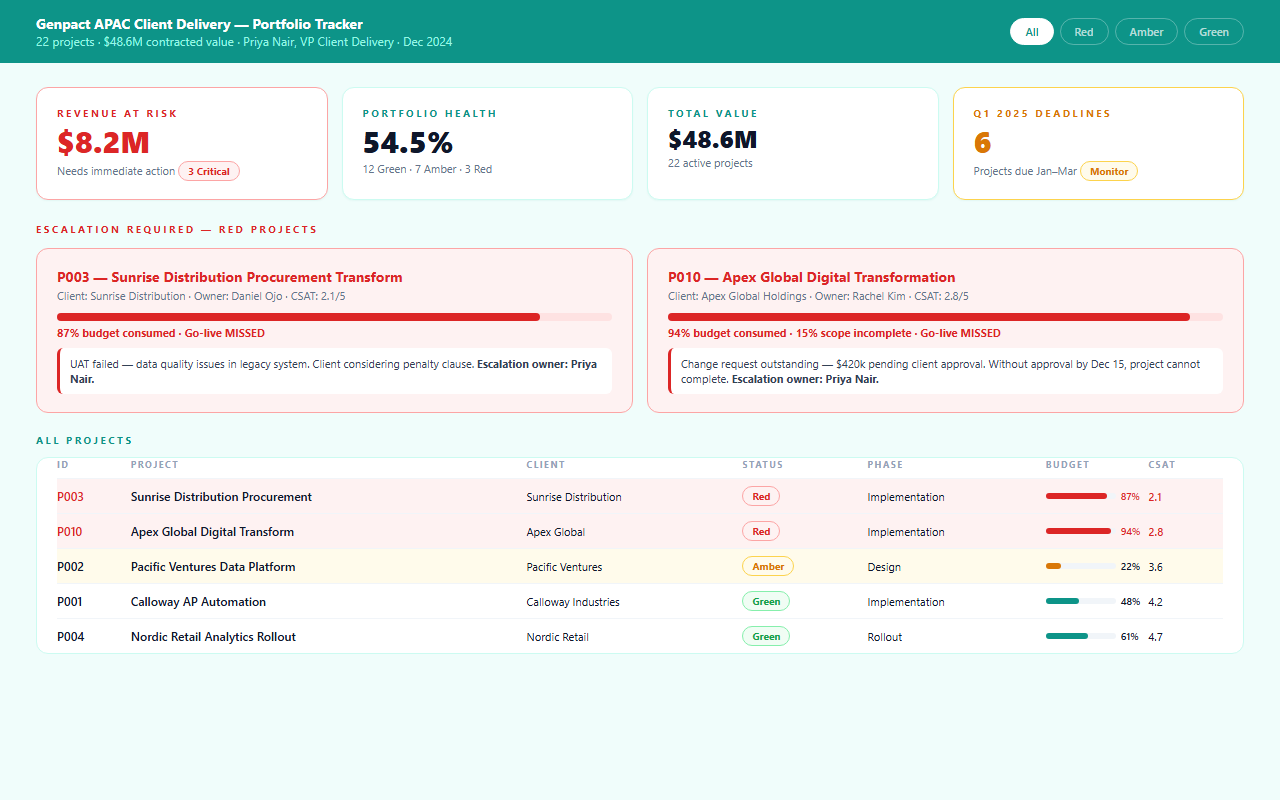
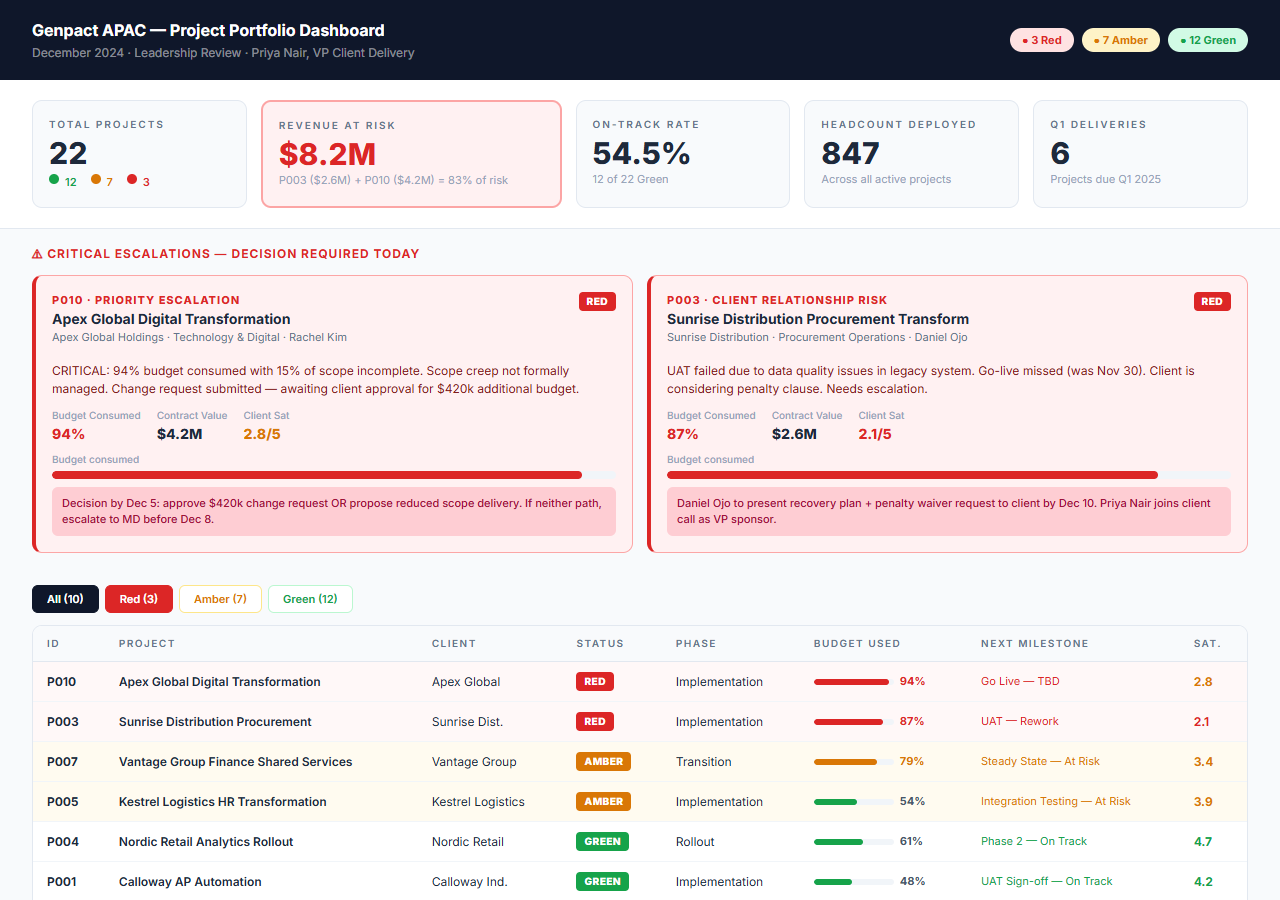
Rebuild Activity 08 on 3-phase Brief/Craft/Build structure
- brief.md: portfolio scenario + 4 non-negotiables + 3 questions
  (P003 UAT failure, P010 budget burn, $8.2M revenue at risk)
- web_research.md (Craft): partial prompt with 5 narrative placeholders
  — audience + decisions, management narrative, escalation priority,
  P003 specific action, P010 change request scenario
- file_analysis.md (Build): fire steps, done criteria, reveal
- complete_prompt.md: facilitator reference with all blanks filled
- config.json: phases 4→3, updated learning objectives
- screenshot_2.png: dark slate dashboard, dual escalation cards,
  RAG-sorted project table with budget bars, Red-first filter

Animation block: revenue-at-risk counter, red project count,
RAG donut (Red segment first), budget bar stagger, table cascade,
escalation card slide-in. RAG filter defaults to Red view.

diff --git a/activities/activity_08_ops_tracker/web_research.md b/activities/activity_08_ops_tracker/web_research.md
@@ -1,39 +1,77 @@
 # Craft
-> Your placeholders are filled. Now deepen the prompt — add the specific insights that turn a project list into an escalation agenda for Priya's review.
-
-## scenario
-
-You have a filled prompt from Stack. It has the right projects and the right RAG colors. Now it needs the right narrative — the insight that tells Priya not just which projects are Red, but what specifically she needs to do before the next review.
-
-This phase adds three layers to your prompt before you fire it.
+> Build the prompt. Five blanks to fill — all require business judgment, not data lookup.
 
 ## context
-
-Look at your filled prompt from Stack. Find these three gaps and add the missing instructions now.
-
-**Gap 1 — The P010 scope creep story.** P010 (Apex Global Digital Transformation) has 94% budget consumed with 15% of scope incomplete — a $420k change request is waiting for client approval. This is the highest-value project at risk and needs an action callout. Add this instruction to the P010 escalation card:
-
-`On the P010 escalation card, add an action callout box in bold: "Change request outstanding — $420k pending client approval. Without approval by [set a date 2 weeks from reporting date], the project cannot complete remaining scope. Escalation owner: Priya Nair."`
-
-**Gap 2 — The Q1 2025 risk radar.** 6 projects are due in Q1 2025 — but some of them already have Amber status. Projects with an Amber status AND a Q1 deadline are the early warnings before they turn Red. Add this instruction after the main project table:
-
-`Add a Q1 2025 Deadline Alert section: list only the projects with planned_end_date in Q1 2025 (Jan–Mar 2025). Highlight any that are currently Amber or Red with a warning badge: "Q1 at risk — requires attention before year-end." This section should appear between the escalation cards and the full project table.`
-
-**Gap 3 — The budget consumption pattern.** Projects at > 80% budget with more than 20% timeline remaining are the ones most likely to become Red. Add this instruction to the project table:
-
-`In the project table, add a "Budget Warning" indicator (amber triangle icon) next to any project where budget_consumed_pct > 80% AND the planned end date is more than 30 days away from the reporting date (2024-12-01). This catches emerging problems before they escalate to Red.`
+The AI will read all project statuses, budget figures, milestone states, client satisfaction scores, and risk statements directly from project_tracker.json. Your job is to supply what the data file cannot: who is running this review, what management story the RAG counts tell, and what specific decision each Red project needs from leadership today.
 
 ## do_this
+Read the five placeholders. Write your answers directly into the prompt below.
 
-Add all three gaps to your prompt. The result should be 300–350 words total.
+## prompt
+Build a single-file HTML project portfolio dashboard for Genpact Client Delivery APAC.
 
-Read the completed prompt once before moving to Validate. If you can point to P010's action callout, the Q1 risk radar, and the budget warning indicator and say what Priya should do about each one, you are ready.
+AUDIENCE:
+[WHO_IS_IN_THE_ROOM → one sentence: who is running this leadership review and what decisions must leave this meeting? Name at least two decisions that require VP-level authority.]
+
+DATA: Attach project_tracker.json to this conversation. Read all project statuses, RAG ratings, contract values, budget consumed %, milestone states, risk statements, and client satisfaction scores directly from the file — do not ask me for numbers, do not hardcode values.
+
+DESIGN KIT — do not change these lines:
+<link href="https://fonts.googleapis.com/css2?family=Inter:wght@400;500;600;700;800&display=swap" rel="stylesheet">
+<script src="https://cdn.tailwindcss.com"></script>
+<script defer src="https://cdn.jsdelivr.net/npm/alpinejs@3.14.1/dist/cdn.min.js"></script>
+<script src="https://cdn.jsdelivr.net/npm/apexcharts@3.54.0/dist/apexcharts.min.js"></script>
+
+DESIGN: Inter font. Background #F8FAFC. Accent #0F172A (slate). Text #1E293B. White card surfaces. RAG: Green #16A34A, Amber #D97706, Red #DC2626. Match the layout and visual treatment shown in screenshot_1.png and screenshot_2.png.
+
+PORTFOLIO NARRATIVE:
+[REVIEW_NARRATIVE → 2 sentences. What is the management story of this portfolio in December 2024? Go beyond "3 of 22 projects are Red" — state what the pattern means for delivery confidence and client relationships heading into Q1.]
+
+PORTFOLIO SUMMARY ROW — 5 stat tiles at the top:
+Tile 1 — Total Projects: total, with breakdown (Green / Amber / Red)
+Tile 2 — Revenue at Risk: the dollar figure. Source: summary.revenue_at_risk_usd. Make this tile Red — it is the headline number.
+Tile 3 — On-Track Rate: % of portfolio Green. Source: summary.on_track_pct.
+Tile 4 — Headcount Deployed: total people. Source: summary.total_headcount_deployed.
+Tile 5 — Q1 Deliveries: projects due next quarter. Source: summary.projects_due_q1_2025.
+
+ESCALATION SECTION — display before the project list:
+[ESCALATION_PRIORITY → Which of the two Red projects (P003 or P010) is the more urgent escalation requiring VP action today, and why? The other is serious — but one requires a decision in this meeting that cannot wait. Name your choice and state the specific decision needed.]
+
+Show P003 and P010 each as a prominent red escalation card. For each: project name, client, risk statement (from the data file), budget consumed %, client satisfaction score, and the specific decision required (use your answer from ESCALATION_PRIORITY for the higher-priority one).
+
+P003 ACTION:
+[P003_ACTION → Write the specific action required for Sunrise Distribution. Who is the accountable owner, what must they do, and by what date? Reference the penalty clause risk from the data.]
+
+P010 ACTION:
+[P010_ACTION → Write the specific action required for Apex Global. The $420k change request is pending client approval — what happens if the client does not approve it? Who owns this escalation and by when must the decision be made?]
+
+PROJECT TABLE — all 10 projects:
+Columns: ID | Project Name | Client | Status (RAG badge) | Phase | Budget Consumed % (progress bar) | Next Milestone | Client Satisfaction (star or score)
+Sort: Red first, then Amber, then Green.
+RAG badge: filled colour background, white text — Red/Amber/Green must be visually unmissable.
+Budget bar: colour-coded — green if <70%, amber if 70-85%, red if >85%.
+
+CHARTS:
+1. Portfolio RAG donut — Green/Amber/Red count. Source: summary fields.
+2. Budget consumed by project — horizontal bar chart, all 10 projects, sorted by consumed % descending. P010 and P003 must visually stand out.
+
+ANIMATION — do not change or remove any of these:
+- Revenue at risk tile: counts up from $0 to actual on page load, 2.5s easeOut (the number must land with weight)
+- Red project count: counts up from 0 to 3, 1s easeOut
+- Portfolio RAG donut: sweeps in clockwise, 1000ms, Red segment first
+- Budget bars: stagger fill left to right, 80ms between bars, colour transitions in with fill
+- Project table rows: cascade fade-in top to bottom, 60ms between rows (Red rows first)
+- Escalation cards: slide in from the left, 300ms stagger between P003 and P010
+- Summary tiles: cascade fade-in left to right, 120ms between tiles
+- Chart sections: fade up when scrolled into view
+
+INTERACTIVITY: Alpine.js RAG filter — All / Red / Amber / Green. Clicking a status filters the project table to that RAG group. Red is the default view on page load — leadership opens to escalations first.
+
+One complete self-contained HTML file. All data from the attached JSON file — no hardcoded values, no fetch calls.
 
 ## checkpoint
-
-Before moving to Validate:
-- P010 action callout added with the $420k change request and escalation owner
-- Q1 2025 Deadline Alert section added between escalation cards and the full project table
-- Budget warning indicator added for projects > 80% consumed with time remaining
-- Prompt is 300–350 words
-- Every figure in the prompt traces back to the data file
+Your prompt is ready when:
+- [ ] You named the two VP-level decisions that must leave this meeting
+- [ ] Your portfolio narrative states the management story, not just the counts
+- [ ] You identified which Red project is more urgent and why
+- [ ] P003 action names an owner, a specific action, and a date
+- [ ] P010 action addresses what happens if the client does not approve the change request

diff --git a/activities/activity_08_ops_tracker/brief.md b/activities/activity_08_ops_tracker/brief.md
@@ -1,87 +1,28 @@
-# Stack
-> Read the brief. Review the design standard. Fill in the prompt placeholders. Exit in 5 minutes with a complete, ready-to-fire prompt.
+# Brief
+> Get oriented in 5 minutes. Read the scenario. Review the design references. Skim the portfolio data.
 
 ## scenario
-
-**Portfolio:** Genpact Client Delivery — APAC Portfolio
-**Deliverable:** Single-file interactive HTML project portfolio tracker
-**Audience:** Priya Nair, VP Client Delivery, and the APAC ExCo at a monthly delivery review
-**Your data file:** `project_tracker.json`
-**Design reference:** `screenshot_1.png` and `screenshot_2.png` in your folder
-
-You are not building anything in this phase. You are setting up: reviewing what you have, understanding the quality bar, and filling in the prompt template below.
+**Portfolio:** Genpact Client Delivery — APAC, December 2024  
+**Deliverable:** Single-file HTML project portfolio dashboard  
+**Audience:** VP Client Delivery leadership review — Priya Nair and direct reports  
+**Data:** project_tracker.json  
+**Design references:** screenshot_1.png and screenshot_2.png in your folder
 
 ## context
+Four things the dashboard must surface — non-negotiable:
 
-Open `screenshot_1.png` and `screenshot_2.png` from your folder. **Treat these like a Figma handoff** — in professional practice, a designer builds the visual first, then hands it to the developer (or AI) and says "build this." That is exactly what you are doing now. Your final tracker must meet this quality before presenting to the VP.
-
-Four non-negotiable rules extracted from the standard:
-
-**1. Color** — Primary `#0D9488` (teal) for page chrome and scorecard headings. RAG colors are hard-coded and must not be softened: Red `#DC2626`, Amber `#D97706`, Green `#16A34A`. A Red project must look unmistakably critical — not orange, not dark red.
-
-**2. Typography** — Inter font throughout (already in the prompt below). `font-weight: 800` for the $8.2M revenue-at-risk figure — this is the number Priya will act on. `font-weight: 600` for project names and budget-consumed percentages. `font-weight: 400` for descriptions and risk text.
-
-**3. Layout** — Summary scorecard (4 tiles) at the top. Red projects as dedicated escalation cards directly below, before the full project table. Full project table with RAG chips and budget bars below that. The $8.2M figure and both Red projects must be visible without scrolling.
-
-**4. Interactivity** — An Alpine.js status filter: All / Red / Amber / Green. Clicking Red shows only Red projects. Budget consumption shown as a horizontal progress bar within each project row — red bar if > 85% consumed. This is what makes the tracker useful in a live review.
+1. **RAG at a glance** — Every project has a Red, Amber, or Green status. The 3 Red projects must be impossible to miss before anyone reads a word. Status from the data file.
+2. **Revenue at risk** — $8.2M is the number leadership must see in the first 10 seconds. It is in the data file.
+3. **Two escalations need names** — P003 (Sunrise Distribution) and P010 (Apex Global) are both Red for different reasons. Each needs a named action owner, a specific risk statement, and a decision required from leadership.
+4. **Budget burn tells the sub-story** — Budget consumed % by project shows which Red/Amber projects are also overspent. P010 at 94% with scope incomplete is a different kind of problem than P003 at 87% with a failed UAT.
 
 ## do_this
-
-Open `project_tracker.json`. Read it for 3 minutes.
-
-Find each `[PLACEHOLDER]` in the sample prompt below and replace it with the real value from the data file. Each placeholder tells you exactly which field to look in. Do not change the STACK block, the RAG thresholds, or the layout structure — only fill in the placeholders.
-
-## prompt
-
-Build a single-file HTML project portfolio tracker for the Genpact APAC Client Delivery portfolio review.
-
-STACK — do not change these:
-<link href="https://fonts.googleapis.com/css2?family=Inter:wght@400;500;600;700;800&display=swap" rel="stylesheet">
-<script src="https://cdn.tailwindcss.com"></script>
-<script defer src="https://cdn.jsdelivr.net/npm/alpinejs@3.14.1/dist/cdn.min.js"></script>
-<script src="https://cdn.jsdelivr.net/npm/apexcharts@3.54.0/dist/apexcharts.min.js"></script>
-
-DESIGN: Inter font. Primary #0D9488. Background #F0FDFB. White card surfaces. Text #1E293B. Refer to screenshot_1.png and screenshot_2.png for layout and visual standard.
-
-RAG COLORS — do not change these:
-- Red: background #FEF2F2, border #FCA5A5, chip text #DC2626, budget bar #DC2626
-- Amber: background #FFFBEB, border #FCD34D, chip text #D97706, budget bar #D97706
-- Green: background #F0FDF4, border #86EFAC, chip text #16A34A, budget bar #16A34A
-
-SUMMARY SCORECARD — 4 tiles, top of page:
-- Portfolio health: [GREEN_COUNT → `summary.on_track_green`] Green / [AMBER_COUNT → `summary.at_risk_amber`] Amber / [RED_COUNT → `summary.critical_red`] Red of [TOTAL_PROJECTS → `summary.total_projects`] projects — show on-track % [ON_TRACK_PCT → `summary.on_track_pct`]%
-- Revenue at risk: $[REVENUE_AT_RISK → `summary.revenue_at_risk_usd`] — label "Needs immediate action" — make this the visual hero tile
-- Total portfolio value: $[TOTAL_VALUE → `summary.total_contracted_value_usd`]
-- Q1 2025 deadline: [Q1_PROJECTS → `summary.projects_due_q1_2025`] projects due — flag this tile amber
-
-ESCALATION CARDS — appear directly below the scorecard, before the full table:
-Show only Red projects as dedicated cards. Each card: project name (large, 600 weight), client name, owner name, budget consumed % (progress bar, red if > 85%), missed milestone (most recent failed milestone), top risk (full text), client satisfaction score.
-
-- [P003_NAME → `projects[2].name`] (Client: [P003_CLIENT → `projects[2].client`], Owner: [P003_OWNER → `projects[2].owner`])
-  Budget: [P003_BUDGET → `projects[2].budget_consumed_pct`]% consumed
-  Missed milestone: [P003_MILESTONE → `projects[2].milestones[3].name`] — [P003_MILESTONE_STATUS → `projects[2].milestones[3].status`]
-  Risk: [P003_RISK → `projects[2].top_risk`]
-  Satisfaction: [P003_SAT → `projects[2].client_satisfaction`]/5
-
-- [P010_NAME → `projects[9].name`] (Client: [P010_CLIENT → `projects[9].client`], Owner: [P010_OWNER → `projects[9].owner`])
-  Budget: [P010_BUDGET → `projects[9].budget_consumed_pct`]% consumed
-  Missed milestone: [P010_MILESTONE → `projects[9].milestones[3].name`] — [P010_MILESTONE_STATUS → `projects[9].milestones[3].status`]
-  Risk: [P010_RISK → `projects[9].top_risk`]
-  Satisfaction: [P010_SAT → `projects[9].client_satisfaction`]/5
-
-PROJECT TABLE — all projects, one row per project:
-Columns: ID | Project Name | Client | Owner | Status chip | Phase | Budget % (bar) | Contract Value | Top Risk (truncated, expand on click)
-Show all projects from the data file. Apply RAG background color to entire row. Budget bar turns red if > 85%.
-
-INTERACTIVITY: Alpine.js filter buttons: All | Red | Amber | Green. Clicking a filter shows only projects with that status.
-
-All data inline as JS objects. One complete self-contained .html file. No fetch calls.
+1. Open screenshot_1.png and screenshot_2.png — this is the visual standard for a leadership-ready portfolio dashboard
+2. Open project_tracker.json — read the two Red projects (P003, P010) and the portfolio summary
+3. Answer these three questions before moving to Craft:
+   - What is the specific risk on P003 and what has already happened (not just at risk — already happened)?
+   - Why is P010 a budget escalation as well as a delivery escalation?
+   - What is the total revenue at risk across the portfolio?
 
 ## checkpoint
-
-Before moving to Craft, confirm:
-- Every [PLACEHOLDER] replaced with a real value from the data file
-- STACK block and RAG colors are unchanged
-- The $[REVENUE_AT_RISK] tile is the visual hero in the scorecard
-- Both P003 and P010 appear as dedicated escalation cards directly below the scorecard
-- Budget bars for P003 (87%) and P010 (94%) are both rendering in red
+You are ready for Craft when you can answer all three questions without looking at the data file.

diff --git a/activities/activity_08_ops_tracker/complete_prompt.md b/activities/activity_08_ops_tracker/complete_prompt.md
@@ -1,0 +1,66 @@
+# Complete Prompt — APAC Project Portfolio Dashboard
+> Facilitator reference. All narrative placeholders filled with example answers.
+> Fire-ready: attach project_tracker.json and paste as-is to test or demo.
+> This file is not shown in the platform — it is for facilitator use only.
+
+---
+
+Build a single-file HTML project portfolio dashboard for Genpact Client Delivery APAC.
+
+AUDIENCE:
+Priya Nair (VP Client Delivery) is running the December 2024 monthly leadership review with her 8 delivery directors; the meeting must leave with two VP-level decisions: whether to invoke the penalty clause waiver negotiation with Sunrise Distribution before December 15, and whether to approve the $420k change request on Apex Global or escalate to the Managing Director for client negotiation.
+
+DATA: Attach project_tracker.json to this conversation. Read all project statuses, RAG ratings, contract values, budget consumed %, milestone states, risk statements, and client satisfaction scores directly from the file — do not ask me for numbers, do not hardcode values.
+
+DESIGN KIT — do not change these lines:
+<link href="https://fonts.googleapis.com/css2?family=Inter:wght@400;500;600;700;800&display=swap" rel="stylesheet">
+<script src="https://cdn.tailwindcss.com"></script>
+<script defer src="https://cdn.jsdelivr.net/npm/alpinejs@3.14.1/dist/cdn.min.js"></script>
+<script src="https://cdn.jsdelivr.net/npm/apexcharts@3.54.0/dist/apexcharts.min.js"></script>
+
+DESIGN: Inter font. Background #F8FAFC. Accent #0F172A (slate). Text #1E293B. White card surfaces. RAG: Green #16A34A, Amber #D97706, Red #DC2626. Match the layout and visual treatment shown in screenshot_1.png and screenshot_2.png.
+
+PORTFOLIO NARRATIVE:
+The APAC portfolio enters December with 54.5% on-track and $8.2M in revenue at risk — a concentration problem, not a spread: the two largest Red projects (P003 at $2.6M and P010 at $4.2M) account for 83% of that risk figure, and both have already missed key milestones rather than being merely at risk; this is a client relationship and margin management problem, not a delivery execution problem, and leadership must leave this meeting with named owners and decision dates on both.
+
+PORTFOLIO SUMMARY ROW — 5 stat tiles at the top:
+Tile 1 — Total Projects: total, with breakdown (Green / Amber / Red)
+Tile 2 — Revenue at Risk: the dollar figure. Source: summary.revenue_at_risk_usd. Make this tile Red — it is the headline number.
+Tile 3 — On-Track Rate: % of portfolio Green. Source: summary.on_track_pct.
+Tile 4 — Headcount Deployed: total people. Source: summary.total_headcount_deployed.
+Tile 5 — Q1 Deliveries: projects due next quarter. Source: summary.projects_due_q1_2025.
+
+ESCALATION SECTION — display before the project list:
+P010 (Apex Global) is the more urgent escalation requiring a decision in this meeting: at 94% budget consumed with 15% of scope incomplete and a $420k change request awaiting client approval, every day without a decision increases the risk that Genpact absorbs the overrun as a margin loss; P003 (Sunrise Distribution) is a client relationship emergency that requires a decision by December 15, but the financial exposure on P010 is larger and the window for a commercial resolution is closing faster.
+
+Show P003 and P010 each as a prominent red escalation card. For each: project name, client, risk statement (from the data file), budget consumed %, client satisfaction score, and the specific decision required.
+
+P003 ACTION:
+Daniel Ojo (delivery owner) must present a formal recovery plan to the client by December 10, 2024, addressing the UAT failure root cause, revised go-live date, and penalty clause waiver request — Priya Nair to join the client call as VP sponsor to signal executive accountability and reduce the probability the client invokes the penalty clause.
+
+P010 ACTION:
+Rachel Kim (delivery owner) must deliver a written go/no-go recommendation to Priya Nair by December 5, 2024: either the $420k change request is approved by the client and scope is formally locked, or Genpact proposes a reduced scope delivery for the original contract value and closes the project by January 31 — if neither path is viable, the MD must be briefed for client escalation before December 8.
+
+PROJECT TABLE — all 10 projects:
+Columns: ID | Project Name | Client | Status (RAG badge) | Phase | Budget Consumed % (progress bar) | Next Milestone | Client Satisfaction (star or score)
+Sort: Red first, then Amber, then Green.
+RAG badge: filled colour background, white text — Red/Amber/Green must be visually unmissable.
+Budget bar: colour-coded — green if <70%, amber if 70-85%, red if >85%.
+
+CHARTS:
+1. Portfolio RAG donut — Green/Amber/Red count. Source: summary fields.
+2. Budget consumed by project — horizontal bar chart, all 10 projects, sorted by consumed % descending. P010 and P003 must visually stand out.
+
+ANIMATION — do not change or remove any of these:
+- Revenue at risk tile: counts up from $0 to actual on page load, 2.5s easeOut (the number must land with weight)
+- Red project count: counts up from 0 to 3, 1s easeOut
+- Portfolio RAG donut: sweeps in clockwise, 1000ms, Red segment first
+- Budget bars: stagger fill left to right, 80ms between bars, colour transitions in with fill
+- Project table rows: cascade fade-in top to bottom, 60ms between rows (Red rows first)
+- Escalation cards: slide in from the left, 300ms stagger between P003 and P010
+- Summary tiles: cascade fade-in left to right, 120ms between tiles
+- Chart sections: fade up when scrolled into view
+
+INTERACTIVITY: Alpine.js RAG filter — All / Red / Amber / Green. Clicking a status filters the project table to that RAG group. Red is the default view on page load — leadership opens to escalations first.
+
+One complete self-contained HTML file. All data from the attached JSON file — no hardcoded values, no fetch calls.

diff --git a/activities/activity_08_ops_tracker/file_analysis.md b/activities/activity_08_ops_tracker/file_analysis.md
@@ -1,36 +1,36 @@
-# Validate
-> Paste your prompt into a neutral AI. Ask it to find gaps — not build. 5 minutes here saves 15 minutes of iteration later.
+# Build
+> Fire. Open in browser. Watch the animations. Iterate once. Ship.
 
 ## scenario
-
-You have a complete, deepened portfolio tracker prompt. Before firing it in Claude, run it through a neutral AI — Gemini, Microsoft Copilot, or ChatGPT — and ask it to review the prompt, not build from it.
-
-For a project tracker, the most common gap is a risk description that is accurate but does not tell the reader what to do — Priya needs to know not just what is wrong with P003 and P010, but what action she should take before the next review.
+You have a prompt with five narrative decisions already made. The AI will read all project statuses, budget figures, and risk statements from project_tracker.json. Your one job now is to fire it, check the output against the design standard, and fix the single most important gap.
 
 ## do_this
+**Step 1 — Fire**
+Attach project_tracker.json to your AI conversation. Paste your completed prompt. Copy the HTML output.
 
-1. Open Gemini (or Copilot) in a new tab — not Claude
-2. Paste your full prompt
-3. Add this review instruction at the very top:
+**Step 2 — Open and compare**
+Save as apac_portfolio.html. Open in a browser. Compare against screenshot_2.png. Check:
+- Does the revenue at risk counter animate from $0 on load?
+- Are the Red projects visually unmissable — before you read anything?
+- Does the RAG filter default to Red view, showing P003 and P010 first?
 
----
-Review the following project portfolio tracker build prompt. Do not build anything. Identify:
-1. Any [PLACEHOLDER] I forgot to replace with a real value
-2. Any Red project escalation card that describes a problem but does not name an action owner or a decision deadline
-3. Any budget consumption figure above 85% that appears in the prompt but has no warning indicator or alert associated with it
-4. One specific improvement to make the tracker more useful for a VP who has 5 minutes to review before a meeting
-
-[PASTE YOUR FULL PROMPT HERE]
----
-
-4. Read the review. Apply any fix that takes under 60 seconds.
-5. One pass only — do not iterate endlessly here.
+**Step 3 — One targeted iteration**
+In the same conversation, describe the single most important gap: a RAG badge that doesn't stand out, a budget bar that doesn't animate, or a missing escalation card. Send one follow-up. Copy the updated HTML.
 
 ## checkpoint
+You are done when:
+- [ ] Revenue at risk ($8.2M) animates from $0 on page load
+- [ ] P003 and P010 appear as prominent Red escalation cards above the project table
+- [ ] Project table is sorted Red-first and each row has a RAG badge and budget bar
+- [ ] RAG filter works — clicking Red shows only P003, P010, and the third Red project
+- [ ] No console errors — both charts and all animations fire
 
-Before moving to Build:
-- Prompt reviewed by a neutral AI (Gemini or Copilot — not Claude)
-- P003 and P010 escalation cards each name an action owner
-- Budget bars are explicitly coded red when > 85% consumed
-- One improvement applied, or confirmed none needed
-- Full prompt is copied and ready to paste in Claude
+## reveal_good
+A strong portfolio dashboard does one thing a status report cannot: it tells leadership where to spend the next 15 minutes.
+
+The RAG filter defaulting to Red is the design decision that changes the meeting. When a VP opens the dashboard, they do not scroll through 22 projects — they see three Red projects and two escalation cards asking for decisions. The meeting starts where it needs to start.
+
+The budget bars are the sub-story: P010 at 94% with scope incomplete is a contract and margin problem, not just a delivery problem. That bar visualises a risk that a text field would bury in row 7.
+
+## reveal_takeaway
+The key lesson: operational dashboards built in AI are only as good as the decisions they force. The five blanks you filled in — the management narrative, the escalation priority, the specific actions — are the difference between a tracker that documents what is happening and one that drives what happens next. The AI rendered the RAG and the budget bars. You provided the accountability.
